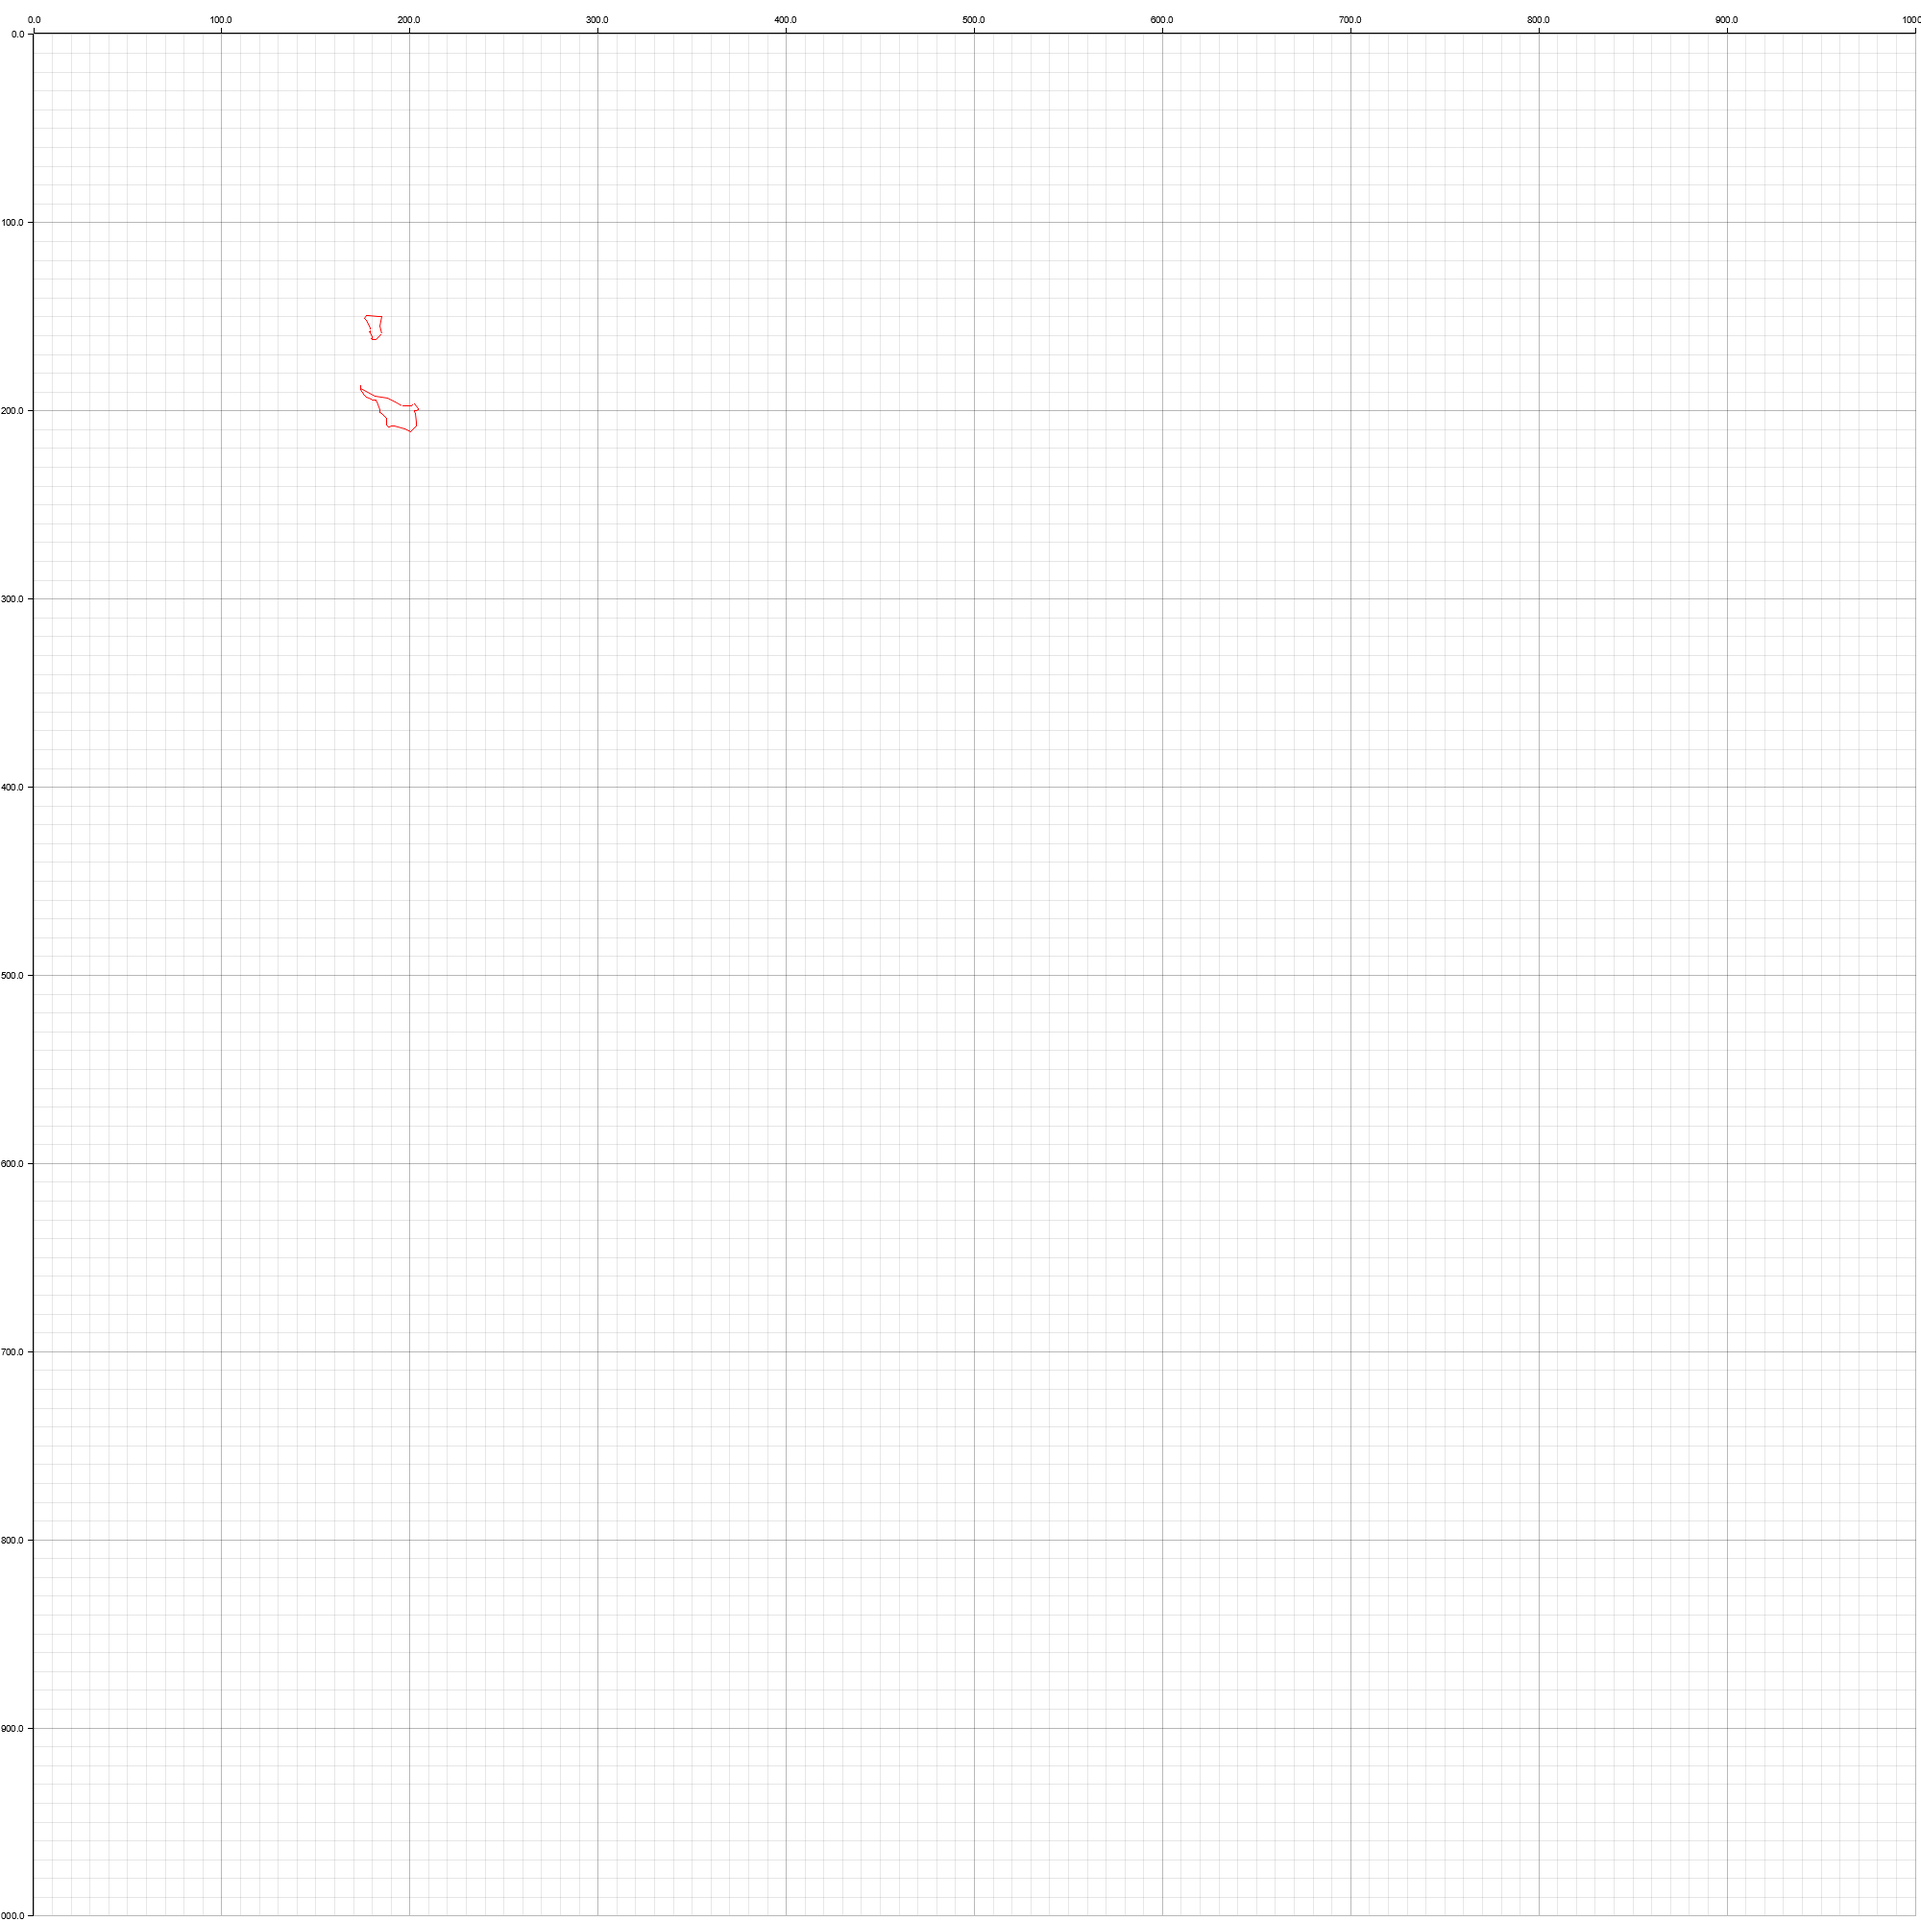
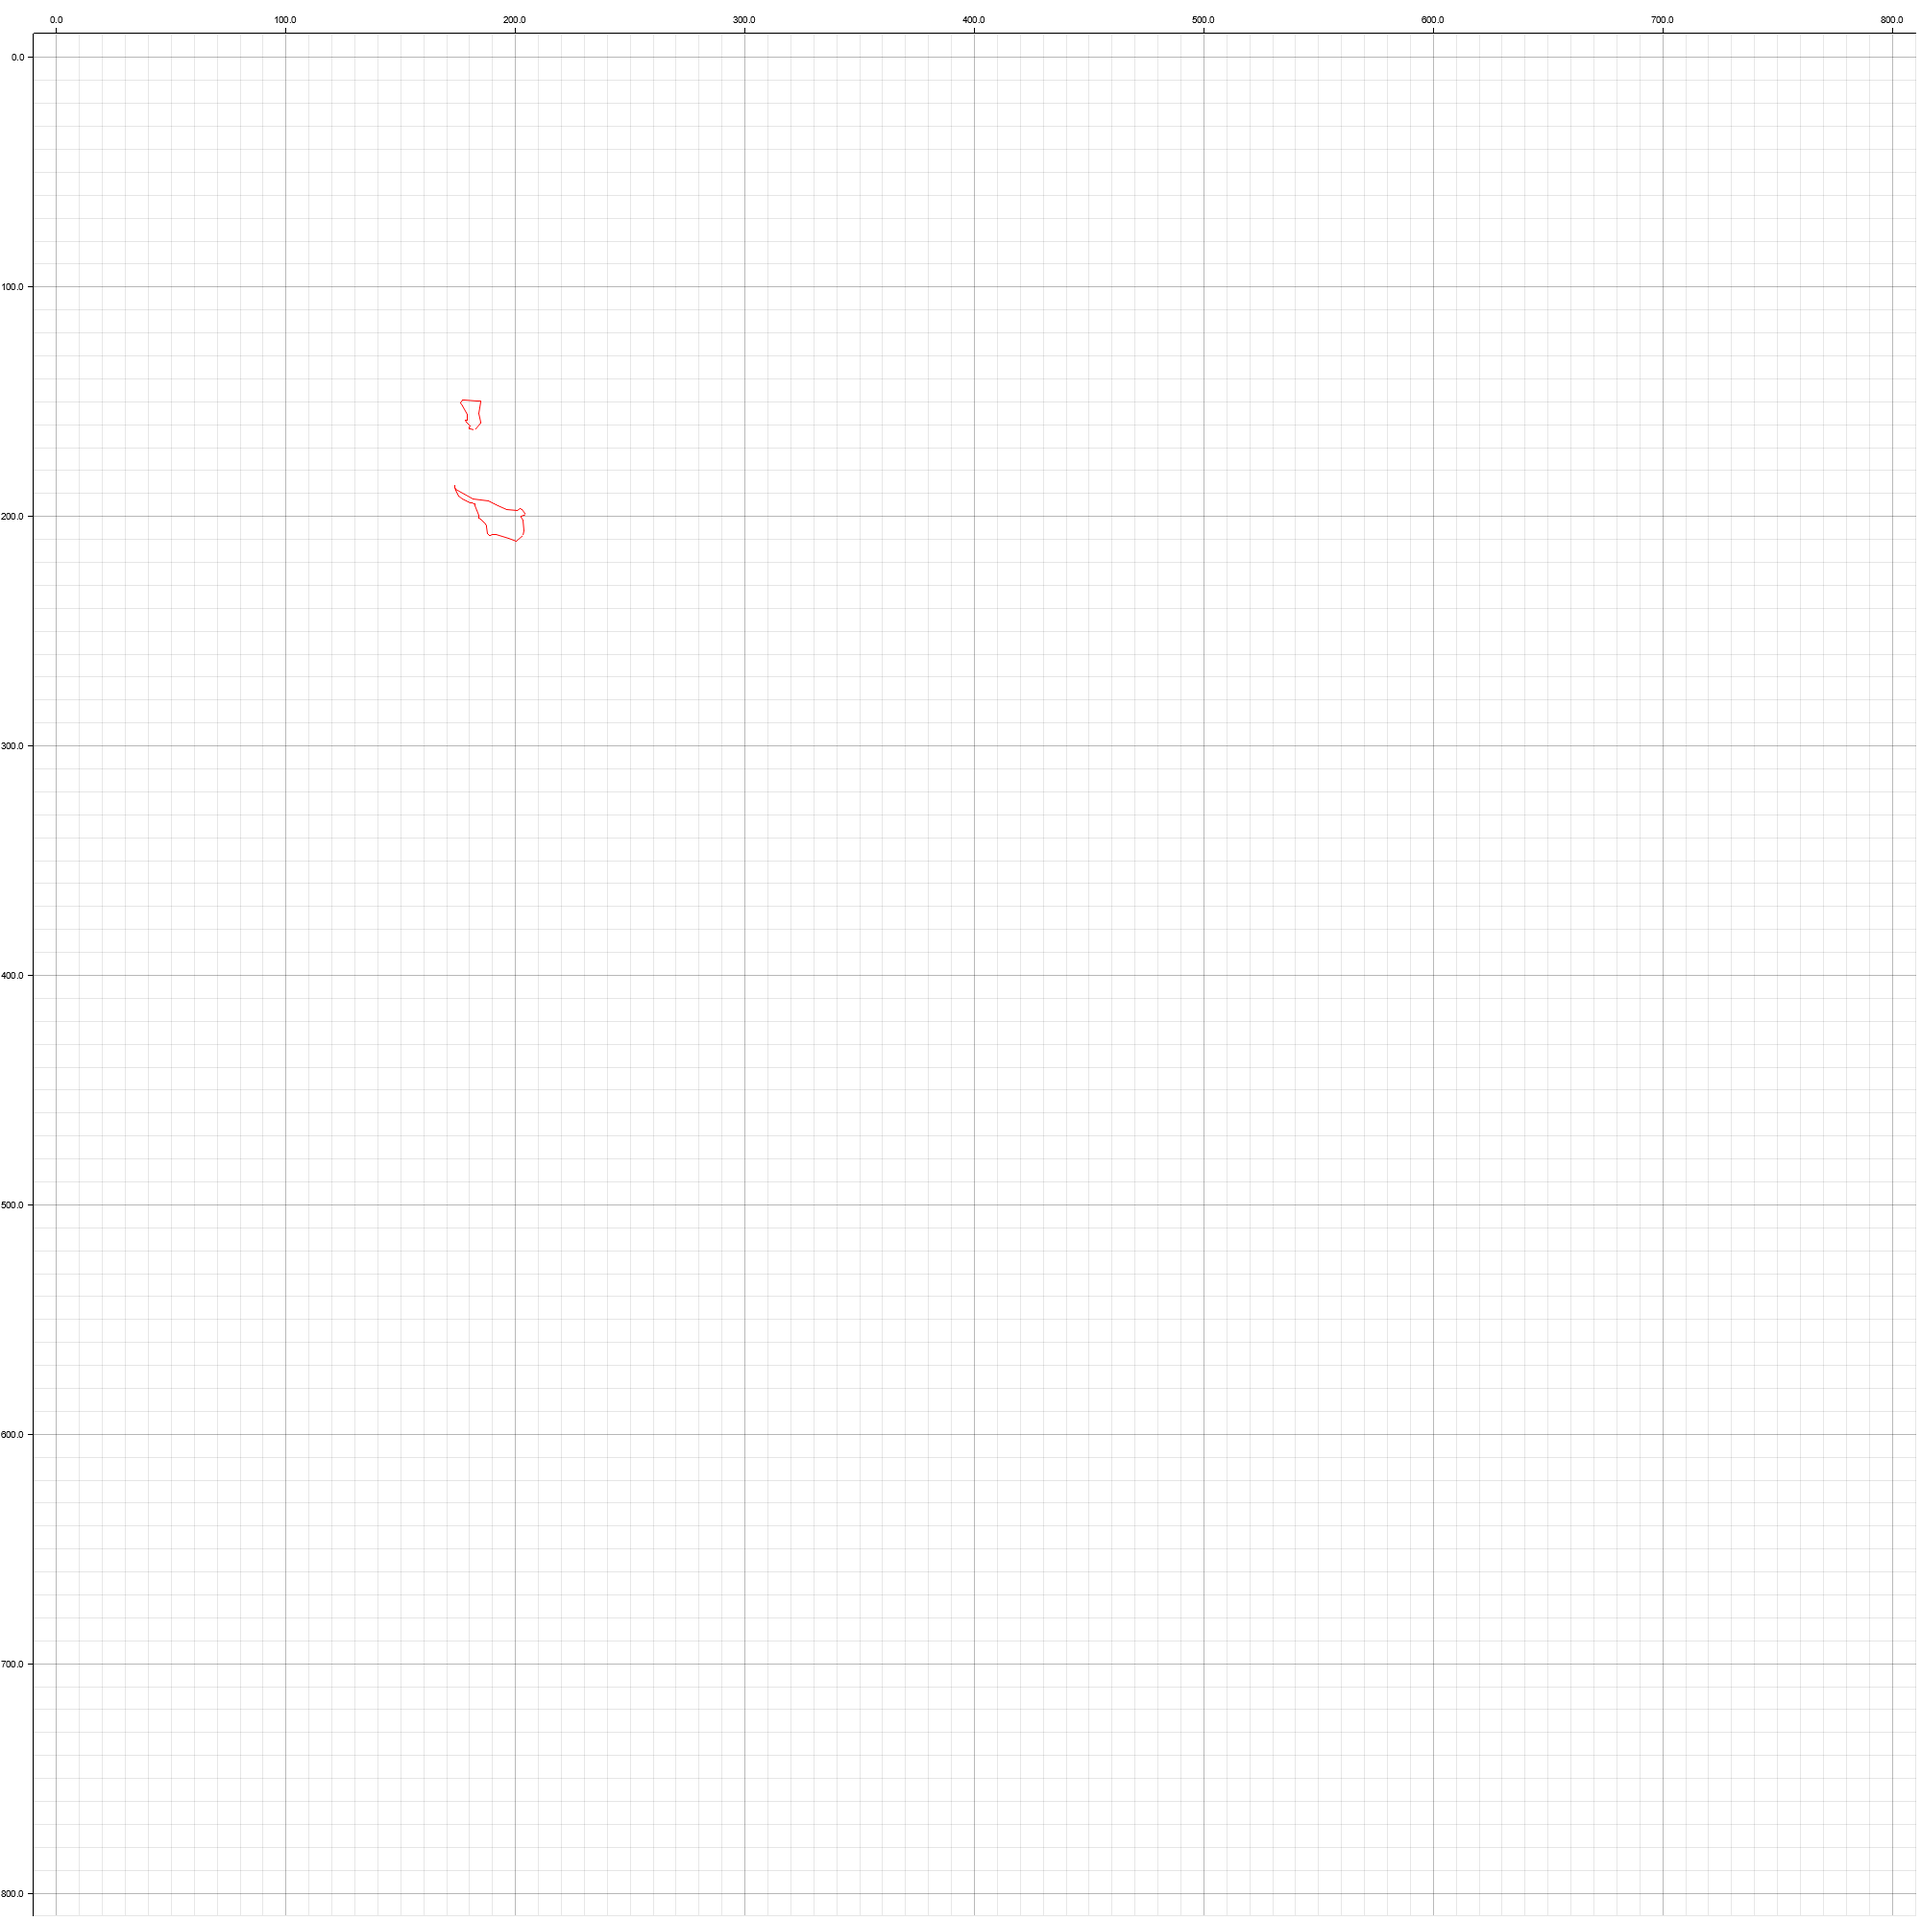
created all .png files; better cartesian borders

diff --git a/Praktikum/praktikum2/src/main.rs b/Praktikum/praktikum2/src/main.rs
@@ -53,6 +53,7 @@ fn main() -> Result<(), Box<dyn std::error::Error>> {
                 let area = (connected_points[i].0 * connected_points[i + 1].1) - (connected_points[i + 1].0 * connected_points[i].1) / 2.0;
 
                 // Summiere Flächen auf
+                // TODO: wie weiß ich, ob Fläche positiv oder negativ ist? -> vgl. "Insel in Niedersachsen" mit "Berlin in Brandenburg"
                 a_ges = a_ges + sign * area;
             }
 
@@ -111,7 +112,7 @@ fn draw_polygon(name: String, points: Vec<Vec<(f32, f32)>>) -> Result<(), Box<dy
         .margin(5)
         .top_x_label_area_size(30)
         .y_label_area_size(30)
-        .build_cartesian_2d(0f32..1000f32, 1000f32..0f32)?;
+        .build_cartesian_2d(-10f32..810f32, 810f32..-10f32)?;
 
     chart.configure_mesh().draw()?;
 
